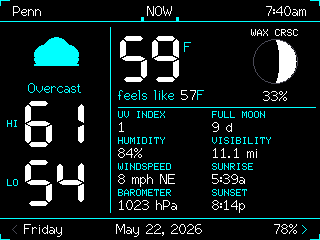
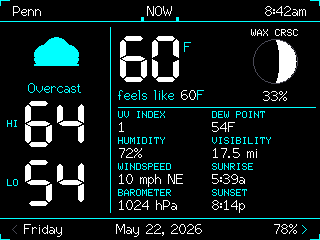
Add dew point, heat index/wind chill, temp trend arrow, and solar data expansion
- NOW screen: dew point replaces "FULL MOON" stat, dynamic heat index /
  wind chill label replaces static "feels like", temp trend arrow shows
  warming/cooling direction for next hour
- SOLAR screen: 3-column stats layout with BT (total magnetic field) and
  TEMP (solar wind temperature) filling the new third column
- AURORA visibility moved to bottom of third column with status-based
  color coding (white/amber/red)
- CME value white in NONE state, red only when a CME is detected

diff --git a/src/ui/screens/screen_solar.cpp b/src/ui/screens/screen_solar.cpp
@@ -25,6 +25,8 @@ struct SolarState {
     float windKms = 0;
     float density = 0;
     float bz = 0;
+    float bt = 0;
+    float solarTemp = 0;
     float xrayFlux = 0;
     float cmeSpeedKms = 0;
     char xrayClass[8] = "N/A";
@@ -52,6 +54,13 @@ static uint16_t kpColor(float kp) {
     if (kp >= 5) return COL_RED;
     if (kp >= 3) return COL_AMBER;
     return g_themeColor;
+}
+
+static const char *auroraLabel(float kp) {
+    if (kp < 5) return "NONE";
+    if (kp < 7) return "HIGH LAT";
+    if (kp < 8) return "POSSIBLE";
+    return "LIKELY";
 }
 
 static bool readKp(JsonVariant row, float &kp) {
@@ -144,6 +153,7 @@ static void fetchPlasma() {
             if (last > 0) {
                 if (!arr[last][1].isNull()) s_solar.density = arr[last][1].as<float>();
                 if (!arr[last][2].isNull()) s_solar.windKms = arr[last][2].as<float>();
+                if (!arr[last][3].isNull()) s_solar.solarTemp = arr[last][3].as<float>();
             }
         }
     }
@@ -162,7 +172,10 @@ static void fetchMag() {
         if (!deserializeJson(doc, http.getString())) {
             JsonArray arr = doc.as<JsonArray>();
             int last = arr.size() - 1;
-            if (last > 0 && !arr[last][3].isNull()) s_solar.bz = arr[last][3].as<float>();
+            if (last > 0) {
+                if (!arr[last][3].isNull()) s_solar.bz = arr[last][3].as<float>();
+                if (!arr[last][4].isNull()) s_solar.bt = arr[last][4].as<float>();
+            }
         }
     }
     http.end();
@@ -295,6 +308,8 @@ static void fetchSolar(bool wifiOk) {
     snprintf(s_solar.flareTime, sizeof(s_solar.flareTime), "---");
     snprintf(s_solar.cmeTime, sizeof(s_solar.cmeTime), "NONE");
     s_solar.cmeSpeedKms = 0;
+    s_solar.bt = 0;
+    s_solar.solarTemp = 0;
 
     bool kpOk = fetchKp();
     fetchPlasma();
@@ -346,7 +361,7 @@ static void drawSolarContent(TFT_eSPI &tft) {
     snprintf(stats[0].value, sizeof(stats[0].value), "%.0f km/s", s_solar.windKms);
     stats[0].label = "WIND"; stats[0].color = COL_WHITE;
     snprintf(stats[1].value, sizeof(stats[1].value), "%.1f nT", s_solar.bz);
-    stats[1].label = "Bz"; stats[1].color = s_solar.bz < -5 ? COL_RED : (s_solar.bz < 0 ? COL_AMBER : g_themeColor);
+    stats[1].label = "Bz"; stats[1].color = COL_WHITE;
     snprintf(stats[2].value, sizeof(stats[2].value), "%.1f p/cc", s_solar.density);
     stats[2].label = "DENS"; stats[2].color = COL_WHITE;
     snprintf(stats[3].value, sizeof(stats[3].value), "%s", s_solar.xrayClass);
@@ -355,12 +370,12 @@ static void drawSolarContent(TFT_eSPI &tft) {
     stats[4].label = "FLR"; stats[4].color = COL_AMBER;
     if (s_solar.cmeSpeedKms > 0) snprintf(stats[5].value, sizeof(stats[5].value), "%.0f km/s", s_solar.cmeSpeedKms);
     else snprintf(stats[5].value, sizeof(stats[5].value), "%s", s_solar.cmeTime);
-    stats[5].label = "CME"; stats[5].color = COL_RED;
+    stats[5].label = "CME"; stats[5].color = (s_solar.cmeSpeedKms > 0 || strcmp(s_solar.cmeTime, "NONE") != 0) ? COL_RED : COL_WHITE;
 
     for (int i = 0; i < 6; ++i) {
         int col = i / 3;
         int row = i % 3;
-        int x = col == 0 ? 126 : 220;
+        int x = col == 0 ? 124 : 204;
         int y = CONTENT_Y + 8 + row * 25;
         tft.setTextFont(FONT_SM);
         tft.setTextColor(g_themeColor, COL_BG);
@@ -371,6 +386,56 @@ static void drawSolarContent(TFT_eSPI &tft) {
         tft.setCursor(x, y + 9);
         tft.print(stats[i].value);
     }
+
+    // 3rd column — BT, TEMP, AURORA (labels FONT_SM, values FONT_MD)
+    int ax = 270, ay = CONTENT_Y + 8;
+
+    // BT — row 0
+    char btBuf[12];
+    snprintf(btBuf, sizeof(btBuf), "%.1f nT", s_solar.bt);
+    tft.setTextFont(FONT_SM);
+    tft.setTextColor(g_themeColor, COL_BG);
+    tft.setCursor(ax, ay);
+    tft.print("BT");
+    tft.setTextFont(FONT_MD);
+    tft.setTextColor(COL_WHITE, COL_BG);
+    tft.setCursor(ax, ay + 9);
+    tft.print(btBuf);
+
+    // TEMP — row 1
+    char tempBuf[12];
+    if (s_solar.solarTemp >= 1000000)
+        snprintf(tempBuf, sizeof(tempBuf), "%.1fM K", s_solar.solarTemp / 1000000.0f);
+    else if (s_solar.solarTemp >= 1000)
+        snprintf(tempBuf, sizeof(tempBuf), "%.0fK K", s_solar.solarTemp / 1000.0f);
+    else if (s_solar.solarTemp > 0)
+        snprintf(tempBuf, sizeof(tempBuf), "%.0f K", s_solar.solarTemp);
+    else
+        snprintf(tempBuf, sizeof(tempBuf), "N/A");
+    tft.setTextFont(FONT_SM);
+    tft.setTextColor(g_themeColor, COL_BG);
+    tft.setCursor(ax, ay + 25);
+    tft.print("TEMP");
+    tft.setTextFont(FONT_MD);
+    tft.setTextColor(COL_WHITE, COL_BG);
+    tft.setCursor(ax, ay + 25 + 9);
+    tft.print(tempBuf);
+
+    // AURORA — row 2 (bottom)
+    const char *al = auroraLabel(s_solar.kp);
+    uint16_t ac = COL_WHITE;
+    if (s_solar.kp < 5)       ac = COL_WHITE;
+    else if (s_solar.kp < 7)  ac = COL_AMBER;
+    else if (s_solar.kp < 8)  ac = COL_WHITE;
+    else                      ac = COL_RED;
+    tft.setTextFont(FONT_SM);
+    tft.setTextColor(g_themeColor, COL_BG);
+    tft.setCursor(ax, ay + 50);
+    tft.print("AURORA");
+    tft.setTextFont(FONT_MD);
+    tft.setTextColor(ac, COL_BG);
+    tft.setCursor(ax, ay + 50 + 9);
+    tft.print(al);
 
     int chartY = CONTENT_Y + 104;
     tft.drawFastHLine(0, chartY - 8, SCREEN_W, g_themeColor);

diff --git a/src/ui/screens/screen_current.cpp b/src/ui/screens/screen_current.cpp
@@ -12,6 +12,48 @@
 
 extern bool g_spriteCapture;
 
+static float calcDewPoint(float tempF, int humidity) {
+    if (humidity <= 0) return tempF;
+    return tempF - ((100.0f - (float)humidity) / 5.0f);
+}
+
+static float calcHeatIndex(float T, int RH) {
+    if (T < 80.0f || RH < 40) return T;
+    float T2 = T * T;
+    float RH2 = (float)(RH * RH);
+    float hi = -42.379f + 2.04901523f * T + 10.14333127f * (float)RH
+             - 0.22475541f * T * (float)RH
+             - 6.83783e-3f * T2 - 5.481717e-2f * RH2
+             + 1.22874e-3f * T2 * (float)RH
+             + 8.5282e-4f * T * RH2
+             - 1.99e-6f * T2 * RH2;
+    if ((float)RH < 13.0f && T > 80.0f && T < 112.0f)
+        hi -= ((13.0f - (float)RH) / 4.0f) * sqrtf((17.0f - fabsf(T - 95.0f)) / 17.0f);
+    if ((float)RH > 85.0f && T > 80.0f && T < 87.0f)
+        hi += (((float)RH - 85.0f) / 10.0f) * ((87.0f - T) / 5.0f);
+    return hi;
+}
+
+static float calcWindChill(float T, float windMph) {
+    if (T > 50.0f || windMph < 3.0f) return T;
+    float powV = powf(windMph, 0.16f);
+    return 35.74f + 0.6215f * T - 35.75f * powV + 0.4275f * T * powV;
+}
+
+static void getFeelsLike(float tempF, int humidity, float windMph,
+                         const char **label, float *value) {
+    if (tempF > 80.0f && humidity >= 40) {
+        *label = "heat index";
+        *value = calcHeatIndex(tempF, humidity);
+    } else if (tempF < 50.0f && windMph >= 3.0f) {
+        *label = "wind chill";
+        *value = calcWindChill(tempF, windMph);
+    } else {
+        *label = "feels like";
+        *value = tempF;
+    }
+}
+
 // Lunar phase: 0.0 = new, 0.5 = full, 1.0 = new
 static float getMoonPhase() {
     time_t now = time(nullptr);
@@ -145,13 +187,34 @@ void screenCurrentDraw(TFT_eSPI &tft, bool wifiOk) {
     tft.setCursor(DX + tw + 2, CONTENT_Y + 16);
     tft.print("\xB0""F");
 
-    // Feels like — value in white, then themed F
+    // Temperature trend arrow — compare current hour vs next hour
+    float trend = g_hourly[0].temp - g_hourly[1].temp;
+    if (fabsf(trend) >= 1.0f && g_current.valid) {
+        int degW = tft.textWidth("\xB0""F");
+        int ax = DX + tw + 2 + degW + 6;
+        int ay = CONTENT_Y + 16 + 7;
+        if (trend < 0) {
+            // Warming up ▲
+            tft.fillTriangle(ax, ay - 4, ax - 4, ay + 3, ax + 4, ay + 3, COL_RED);
+        } else {
+            // Cooling down ▼
+            tft.fillTriangle(ax, ay + 4, ax - 4, ay - 3, ax + 4, ay - 3, g_themeColor);
+        }
+    }
+
+    // Dynamic feels-like label: heat index / wind chill / feels like
+    const char *flLabel;
+    float flValue;
+    getFeelsLike(g_current.temp, g_current.humidity, g_current.wind_speed,
+                 &flLabel, &flValue);
+
     tft.setTextFont(FONT_MD);
     tft.setTextColor(g_themeColor, COL_BG);
     tft.setCursor(DX, CONTENT_Y + 64);
-    tft.print("feels like ");
-    int lw = tft.textWidth("feels like ");
-    snprintf(buf, sizeof(buf), "%d\xB0", (int)roundf(g_current.feels_like));
+    tft.print(flLabel);
+    tft.print(" ");
+    int lw = tft.textWidth(flLabel) + tft.textWidth(" ");
+    snprintf(buf, sizeof(buf), "%d\xB0", (int)roundf(flValue));
     tft.setTextColor(COL_WHITE, COL_BG);
     tft.setCursor(DX + lw, CONTENT_Y + 64);
     tft.print(buf);
@@ -204,7 +267,8 @@ void screenCurrentDraw(TFT_eSPI &tft, bool wifiOk) {
     snprintf(v1, 24, "%d%%",     g_current.humidity);
     snprintf(v2, 24, "%d mph %s",(int)roundf(g_current.wind_speed), windCardinal(g_current.wind_dir));
     snprintf(v3, 24, "%d hPa",   (int)roundf(g_current.pressure));
-    snprintf(v4, 24, "%.0f d",   daysToFull);
+    float dewPt = calcDewPoint(g_current.temp, g_current.humidity);
+    snprintf(v4, 24, "%d\xB0""F", (int)roundf(dewPt));
     snprintf(v5, 24, "%.1f mi",  g_current.visibility);
     snprintf(v6, 24, "%s",       g_daily[0].sunrise[0] ? g_daily[0].sunrise : "--:--");
     snprintf(v7, 24, "%s",       g_daily[0].sunset[0]  ? g_daily[0].sunset  : "--:--");
@@ -216,7 +280,7 @@ void screenCurrentDraw(TFT_eSPI &tft, bool wifiOk) {
         { "BAROMETER",   v3, false },
     };
     StatRow right[4] = {
-        { "FULL MOON",    v4, false },
+        { "DEW POINT",    v4, false },
         { "VISIBILITY",   v5, false },
         { "SUNRISE",      v6, false },
         { "SUNSET",       v7, false },
